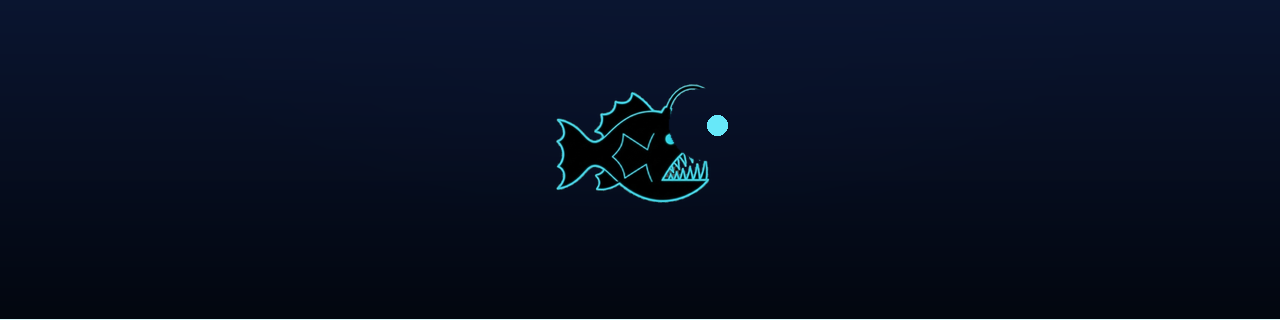
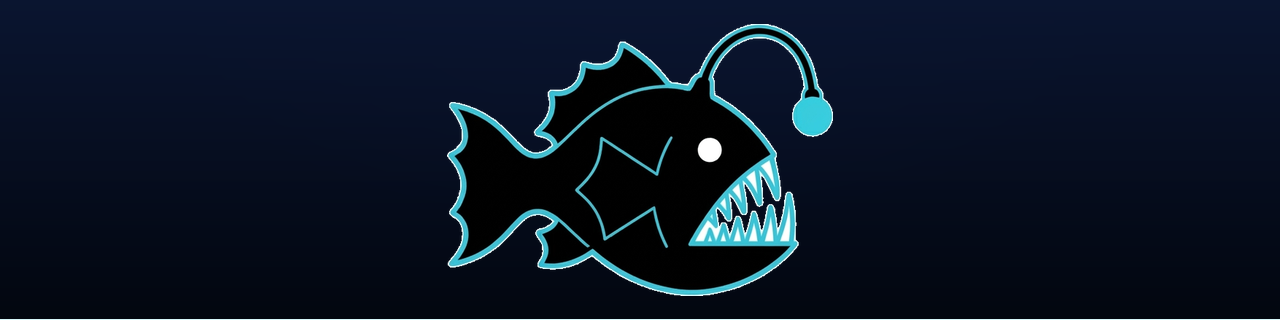
Replace anglerfish source with a clean upstream artwork
The old assets/anglerfish-logo.png (227x256) had a stylized dotted
mesh halo around the bulb that kept rendering as a checkerboard on
GitHub. The previous banner generator carried a lot of surgical
pixel-pushing to wipe that mesh — none of it was ever quite right.

Swapped in a higher-resolution upstream artwork (assets/anglerfish.png,
1286x816) that already has a clean cyan bulb glow built in.
Added tools/clean_logo.py which strips the white background with a
two-pass approach: corner flood-fill at tight threshold, then iterative
expansion into adjacent bright+low-saturation pixels to swallow the
JPEG gradient noise the flood can't traverse — without touching the
white eye and teeth-gap pixels inside the silhouette.

Banner generator is now ~half the lines: open clean source, crop to
its alpha bbox, scale, composite onto the deep-sea gradient. Dropped
the old anglerfish_transparent.png experimental file along with the
old logo.

Changed region(s): [[0.3438, 0.0625, 0.6562, 0.9375]]

diff --git a/tools/generate_banner.py b/tools/generate_banner.py
@@ -1,15 +1,12 @@
 """Generate the README banner from the bioluminescent dashboard palette.
 
-Output: ``assets/anglerfish-banner.png`` — static PNG (1280x320) whose
-layout, palette and sigil halo match the dashboard ``.lure`` header in
+Output: ``assets/anglerfish-banner.png`` — static PNG (1280x320) with
+the cleaned fish sigil centred on the deep-sea radial gradient that
+matches the dashboard ``body`` + ``.lure`` background in
 ``src/anglerfish/dashboard/static/style.css``.
 
-The source artwork surrounds the bulb with a dotted cyan/dark mesh that
-reads as a checkerboard at any zoom; we wipe that ring before
-compositing while preserving the clean cyan bulb disc itself.
-
-Re-run after editing dashboard styles or bumping the version so the
-README banner stays in sync.
+Source: ``assets/anglerfish.png`` (already background-stripped by
+``tools/clean_logo.py``).
 
     python tools/generate_banner.py
 """
@@ -18,56 +15,24 @@ from __future__ import annotations
 
 import math
 import sys
-import tomllib
 from pathlib import Path
 
-from PIL import Image, ImageDraw, ImageFilter, ImageFont
+from PIL import Image, ImageDraw
 
 ROOT = Path(__file__).resolve().parent.parent
-SIGIL_SRC = ROOT / "assets" / "anglerfish-logo.png"
+SIGIL_SRC = ROOT / "assets" / "anglerfish.png"
 BANNER_OUT = ROOT / "assets" / "anglerfish-banner.png"
 
 WIDTH, HEIGHT = 1280, 320
 
-# Palette (from dashboard/static/style.css :root)
+# Palette (from dashboard/static/style.css :root).
 ABYSS = (2, 6, 15, 255)
 ABYSS_2 = (5, 11, 29, 255)
 ABYSS_3 = (10, 21, 48, 255)
-BIO = (34, 211, 238)              # --bioluminescence
-BIO_SOFT = (103, 232, 249)        # --bioluminescence-soft
-TEXT_DIM = (148, 168, 192)
 BORDER = (34, 211, 238, 46)       # rgba(34,211,238,0.18)
 
-# Where to wipe and where to repaint. The source artwork's halo is centered
-# slightly left of the bulb disc, so a single circular erase covers both,
-# then we paint a clean cyan disc back at the bulb's actual position.
-ESCA_ERASE_X_PCT = 0.83        # erase mask centre — covers halo + disc
-ESCA_ERASE_Y_PCT = 0.34
-ESCA_ERASE_RADIUS_PCT = 0.18
-ESCA_DISC_X_PCT = 0.889        # painted bulb centre — actual disc position
-ESCA_DISC_Y_PCT = 0.344
-ESCA_DISC_RADIUS_PCT = 0.048
-
-# Layout: 48px outer padding, sigil ~ 224px tall, 32px gap to text block.
-PAD = 48
-SIGIL_H = 224
-GAP = 36
-
-WIN_FONTS = Path("C:/Windows/Fonts")
-FONT_TITLE = WIN_FONTS / "segoeuib.ttf"   # Segoe UI Bold (Inter fallback)
-FONT_SUB = WIN_FONTS / "segoeui.ttf"
-FONT_MONO = WIN_FONTS / "consolab.ttf"    # Consolas Bold (JetBrains Mono fallback)
-
-TITLE_SIZE = 64
-SUB_SIZE = 22
-PILL_SIZE = 18
-TITLE_TRACK = 11   # ~ 0.18em at 64px
-PILL_TRACK = 2
-
-
-def read_version() -> str:
-    pyproject = tomllib.loads((ROOT / "pyproject.toml").read_text(encoding="utf-8"))
-    return str(pyproject["project"]["version"])
+# Sigil height in banner pixels — leaves ~24px breathing room top/bottom.
+SIGIL_H = 272
 
 
 def make_background() -> Image.Image:
@@ -75,7 +40,7 @@ def make_background() -> Image.Image:
     bg = Image.new("RGBA", (WIDTH, HEIGHT), ABYSS)
     px = bg.load()
     assert px is not None
-    cx, cy = WIDTH / 2, 0  # ellipse "at top"
+    cx, cy = WIDTH / 2, 0
     rx, ry = WIDTH * 0.65, HEIGHT * 1.2
     for y in range(HEIGHT):
         for x in range(WIDTH):
@@ -86,7 +51,6 @@ def make_background() -> Image.Image:
             g = round(ABYSS_2[1] + (ABYSS[1] - ABYSS_2[1]) * t)
             b = round(ABYSS_2[2] + (ABYSS[2] - ABYSS_2[2]) * t)
             px[x, y] = (r, g, b, 255)
-    # Top linear overlay: ABYSS_3 → transparent (mirrors `.lure` bg).
     overlay = Image.new("RGBA", (WIDTH, HEIGHT), (0, 0, 0, 0))
     olpx = overlay.load()
     assert olpx is not None
@@ -95,110 +59,23 @@ def make_background() -> Image.Image:
         for x in range(WIDTH):
             olpx[x, y] = (*ABYSS_3[:3], a)
     bg.alpha_composite(overlay)
-    # Bottom border line (matches `.lure` border-bottom).
     ImageDraw.Draw(bg).line([(0, HEIGHT - 1), (WIDTH, HEIGHT - 1)], fill=BORDER, width=1)
     return bg
 
 
 def load_sigil() -> Image.Image:
-    """Load the silhouette, wipe the bulb/halo region, paint a clean bulb back."""
+    """Open the source, crop to its alpha bounding box, and scale to SIGIL_H."""
     sigil = Image.open(SIGIL_SRC).convert("RGBA")
+    bbox = sigil.getbbox()
+    if bbox is None:
+        raise RuntimeError(f"{SIGIL_SRC} has no opaque pixels")
+    sigil = sigil.crop(bbox)
     ratio = SIGIL_H / sigil.height
     new_w = round(sigil.width * ratio)
-    sigil = sigil.resize((new_w, SIGIL_H), Image.LANCZOS)
-    # Wipe the entire bulb-area circle (halo + original disc).
-    ex = round(new_w * ESCA_ERASE_X_PCT)
-    ey = round(SIGIL_H * ESCA_ERASE_Y_PCT)
-    er = round(new_w * ESCA_ERASE_RADIUS_PCT)
-    mask = Image.new("L", sigil.size, 255)
-    ImageDraw.Draw(mask).ellipse((ex - er, ey - er, ex + er, ey + er), fill=0)
-    mask = mask.filter(ImageFilter.GaussianBlur(0.6))
-    alpha = sigil.split()[3]
-    new_alpha = Image.new("L", sigil.size)
-    ap = alpha.load()
-    mp = mask.load()
-    np_ = new_alpha.load()
-    assert ap is not None and mp is not None and np_ is not None
-    for y in range(sigil.size[1]):
-        for x in range(sigil.size[0]):
-            np_[x, y] = (ap[x, y] * mp[x, y]) // 255
-    sigil.putalpha(new_alpha)
-    # Paint a clean cyan disc at the bulb's actual location.
-    dx = round(new_w * ESCA_DISC_X_PCT)
-    dy = round(SIGIL_H * ESCA_DISC_Y_PCT)
-    dr = round(new_w * ESCA_DISC_RADIUS_PCT)
-    disc_draw = ImageDraw.Draw(sigil)
-    disc_draw.ellipse((dx - dr, dy - dr, dx + dr, dy + dr), fill=(*BIO_SOFT, 255))
-    return sigil
-
-
-def sigil_halo(sigil: Image.Image) -> Image.Image:
-    """Soft cyan ambient drop-shadow around the sigil (matches CSS filter)."""
-    alpha = sigil.split()[3]
-    halo = Image.new("RGBA", sigil.size, (*BIO, 0))
-    halo.putalpha(alpha.point(lambda v: min(255, int(v * 0.5))))
-    return halo.filter(ImageFilter.GaussianBlur(8))
-
-
-def draw_tracked_text(
-    draw: ImageDraw.ImageDraw,
-    xy: tuple[int, int],
-    text: str,
-    font: ImageFont.FreeTypeFont,
-    fill: tuple[int, int, int] | tuple[int, int, int, int],
-    track: int,
-) -> int:
-    """Draw `text` with per-character letter-spacing. Returns total width."""
-    x, y = xy
-    start_x = x
-    for ch in text:
-        draw.text((x, y), ch, font=font, fill=fill)
-        bbox = font.getbbox(ch)
-        x += (bbox[2] - bbox[0]) + track
-    return x - start_x - track if text else 0
-
-
-def tracked_text_width(text: str, font: ImageFont.FreeTypeFont, track: int) -> int:
-    if not text:
-        return 0
-    width = 0
-    for ch in text:
-        bbox = font.getbbox(ch)
-        width += (bbox[2] - bbox[0]) + track
-    return width - track
-
-
-def render_title_with_glow(text: str, font: ImageFont.FreeTypeFont) -> Image.Image:
-    """Title text with its cyan glow (matches CSS text-shadow on .lure__title)."""
-    w = tracked_text_width(text, font, TITLE_TRACK) + 80
-    h = TITLE_SIZE * 2
-    layer = Image.new("RGBA", (w, h), (0, 0, 0, 0))
-    glow_draw = ImageDraw.Draw(layer)
-    draw_tracked_text(glow_draw, (40, h // 4), text, font, (*BIO, 200), TITLE_TRACK)
-    glow = layer.filter(ImageFilter.GaussianBlur(6))
-    foreground = Image.new("RGBA", (w, h), (0, 0, 0, 0))
-    fg_draw = ImageDraw.Draw(foreground)
-    draw_tracked_text(fg_draw, (40, h // 4), text, font, (*BIO_SOFT, 255), TITLE_TRACK)
-    glow.alpha_composite(foreground)
-    return glow
-
-
-def render_status_pill(version: str, font: ImageFont.FreeTypeFont) -> Image.Image:
-    text = f"v{version}".upper()
-    tw = tracked_text_width(text, font, PILL_TRACK)
-    pad_x, pad_y = 18, 8
-    w = tw + pad_x * 2
-    h = PILL_SIZE + pad_y * 2 + 4
-    pill = Image.new("RGBA", (w, h), (0, 0, 0, 0))
-    draw = ImageDraw.Draw(pill)
-    radius = h // 2
-    draw.rounded_rectangle((0, 0, w - 1, h - 1), radius=radius, outline=(*BIO, 200), width=1)
-    draw_tracked_text(draw, (pad_x, pad_y), text, font, (*BIO_SOFT, 230), PILL_TRACK)
-    return pill
+    return sigil.resize((new_w, SIGIL_H), Image.LANCZOS)
 
 
 def compose_banner() -> Image.Image:
-    """Render the banner: just the deep-sea background and the fish sigil."""
     base = make_background()
     sigil = load_sigil()
     sigil_x = (WIDTH - sigil.width) // 2

diff --git a/tools/clean_logo.py b/tools/clean_logo.py
@@ -1,0 +1,95 @@
+"""Strip the white background from ``assets/anglerfish.png``.
+
+Floods the outer-white region from each corner with a sentinel colour,
+then builds an alpha mask where flooded pixels are transparent and
+everything else is opaque. White pixels *inside* the silhouette (the
+eye and teeth-gap detailing) are preserved because they are not
+connected to the corners.
+
+Overwrites the source file in place.
+
+    python tools/clean_logo.py
+"""
+
+from __future__ import annotations
+
+import sys
+from pathlib import Path
+
+from PIL import Image, ImageDraw
+
+ROOT = Path(__file__).resolve().parent.parent
+LOGO = ROOT / "assets" / "anglerfish.png"
+
+# Sentinel RGB that won't appear in the artwork (deep magenta).
+SENTINEL = (255, 0, 255)
+# Per-channel tolerance for the corner flood. Generous enough to swallow
+# JPEG-style off-white edge pixels (252-254), tight enough to stop at
+# the cyan glow's outer halo.
+FLOOD_THRESH = 12
+
+
+def strip_white_background(img: Image.Image) -> Image.Image:
+    """Two-pass background removal.
+
+    Pass 1 — flood from each corner with a tight threshold. This catches
+    the pure white outer region without bleeding into the cyan glow.
+
+    Pass 2 — iteratively dilate the background into adjacent pixels that
+    are *bright + low-saturation*. This swallows the JPEG-style gradient
+    noise the flood couldn't traverse, but only where it's already
+    touching the established background — so the white eye and teeth-gap
+    pixels *inside* the silhouette stay opaque.
+    """
+    rgb = img.convert("RGB").copy()
+    w, h = rgb.size
+    for corner in ((0, 0), (w - 1, 0), (0, h - 1), (w - 1, h - 1)):
+        ImageDraw.floodfill(rgb, corner, SENTINEL, thresh=FLOOD_THRESH)
+    src_rgb = img.convert("RGB")
+    src_p = src_rgb.load()
+    rgbp = rgb.load()
+    assert src_p is not None and rgbp is not None
+
+    def is_noise(x: int, y: int) -> bool:
+        r, g, b = src_p[x, y]
+        return min(r, g, b) > 190 and (max(r, g, b) - min(r, g, b)) < 12
+
+    changed = True
+    while changed:
+        changed = False
+        for y in range(h):
+            for x in range(w):
+                if rgbp[x, y] == SENTINEL or not is_noise(x, y):
+                    continue
+                for dx, dy in ((-1, 0), (1, 0), (0, -1), (0, 1)):
+                    nx, ny = x + dx, y + dy
+                    if 0 <= nx < w and 0 <= ny < h and rgbp[nx, ny] == SENTINEL:
+                        rgbp[x, y] = SENTINEL
+                        changed = True
+                        break
+
+    alpha = Image.new("L", rgb.size)
+    ap = alpha.load()
+    assert ap is not None
+    for y in range(h):
+        for x in range(w):
+            ap[x, y] = 0 if rgbp[x, y] == SENTINEL else 255
+    result = img.convert("RGBA").copy()
+    result.putalpha(alpha)
+    return result
+
+
+def main() -> int:
+    if not LOGO.exists():
+        print(f"missing logo: {LOGO}", file=sys.stderr)
+        return 1
+    src = Image.open(LOGO)
+    print(f"cleaning {LOGO.relative_to(ROOT)} ({src.size[0]}x{src.size[1]})")
+    out = strip_white_background(src)
+    out.save(LOGO, format="PNG", optimize=True)
+    print(f"wrote {LOGO.relative_to(ROOT)} ({LOGO.stat().st_size / 1024:.0f} KB)")
+    return 0
+
+
+if __name__ == "__main__":
+    raise SystemExit(main())